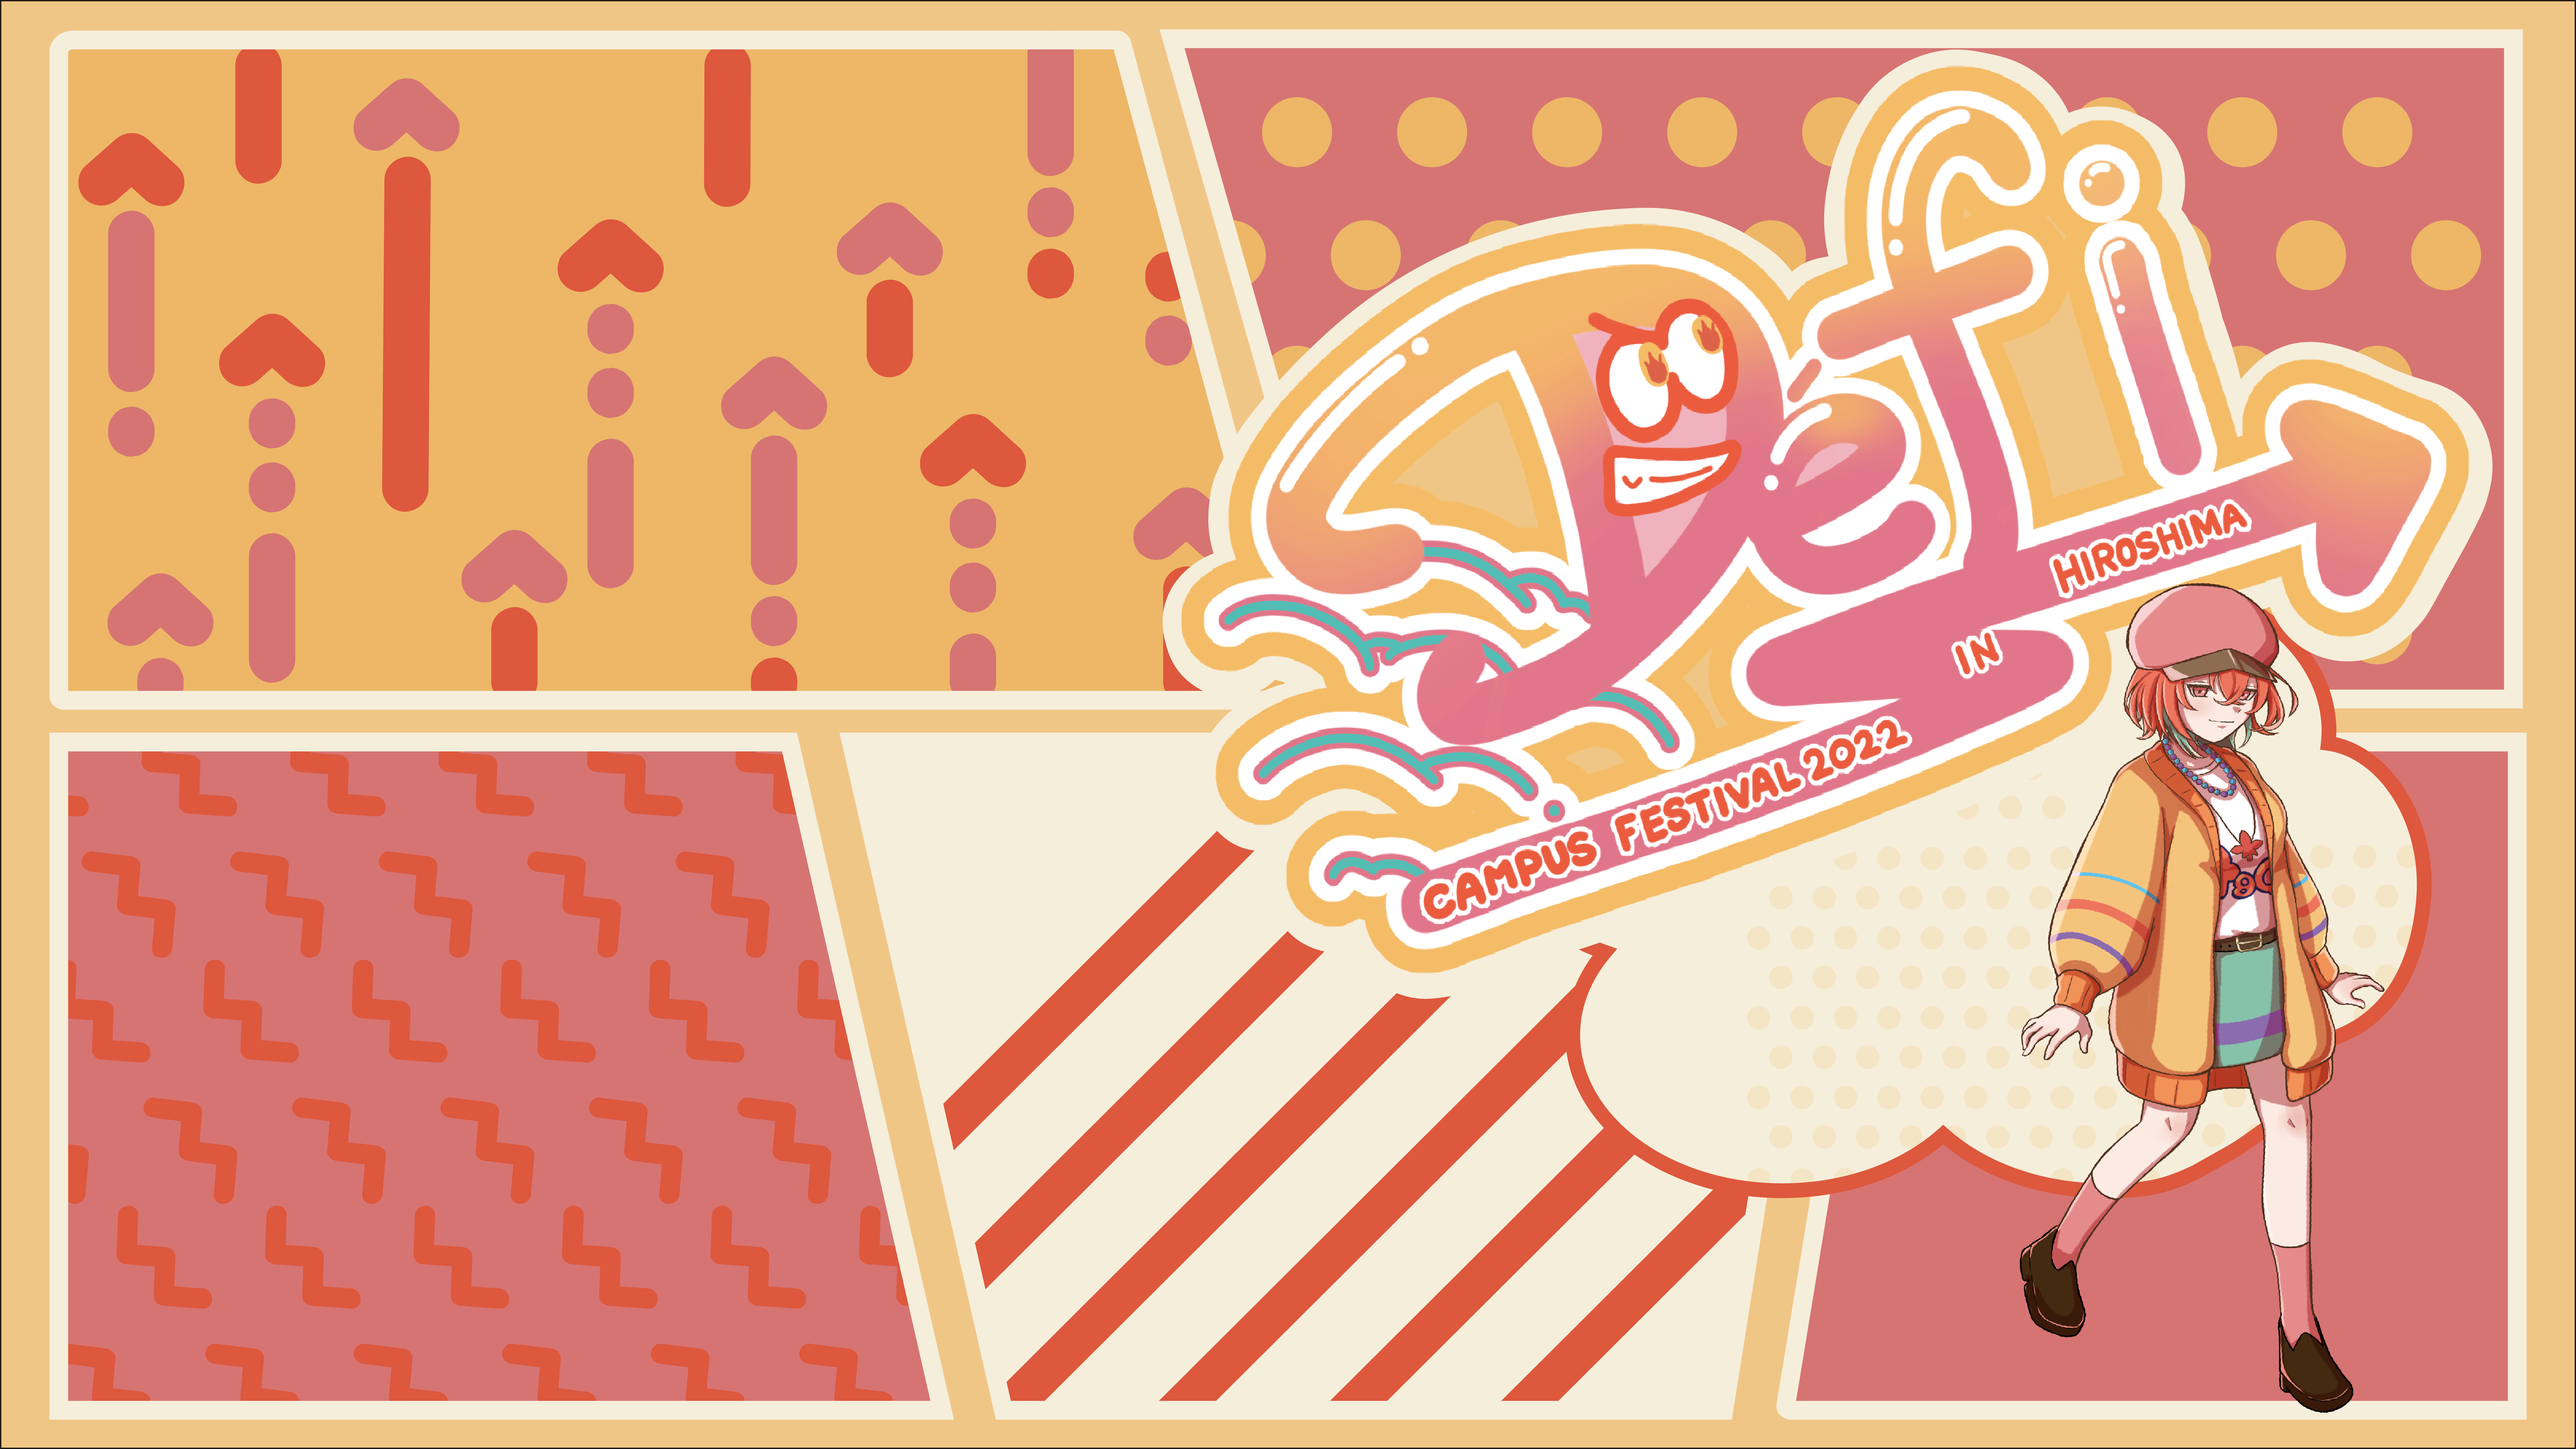
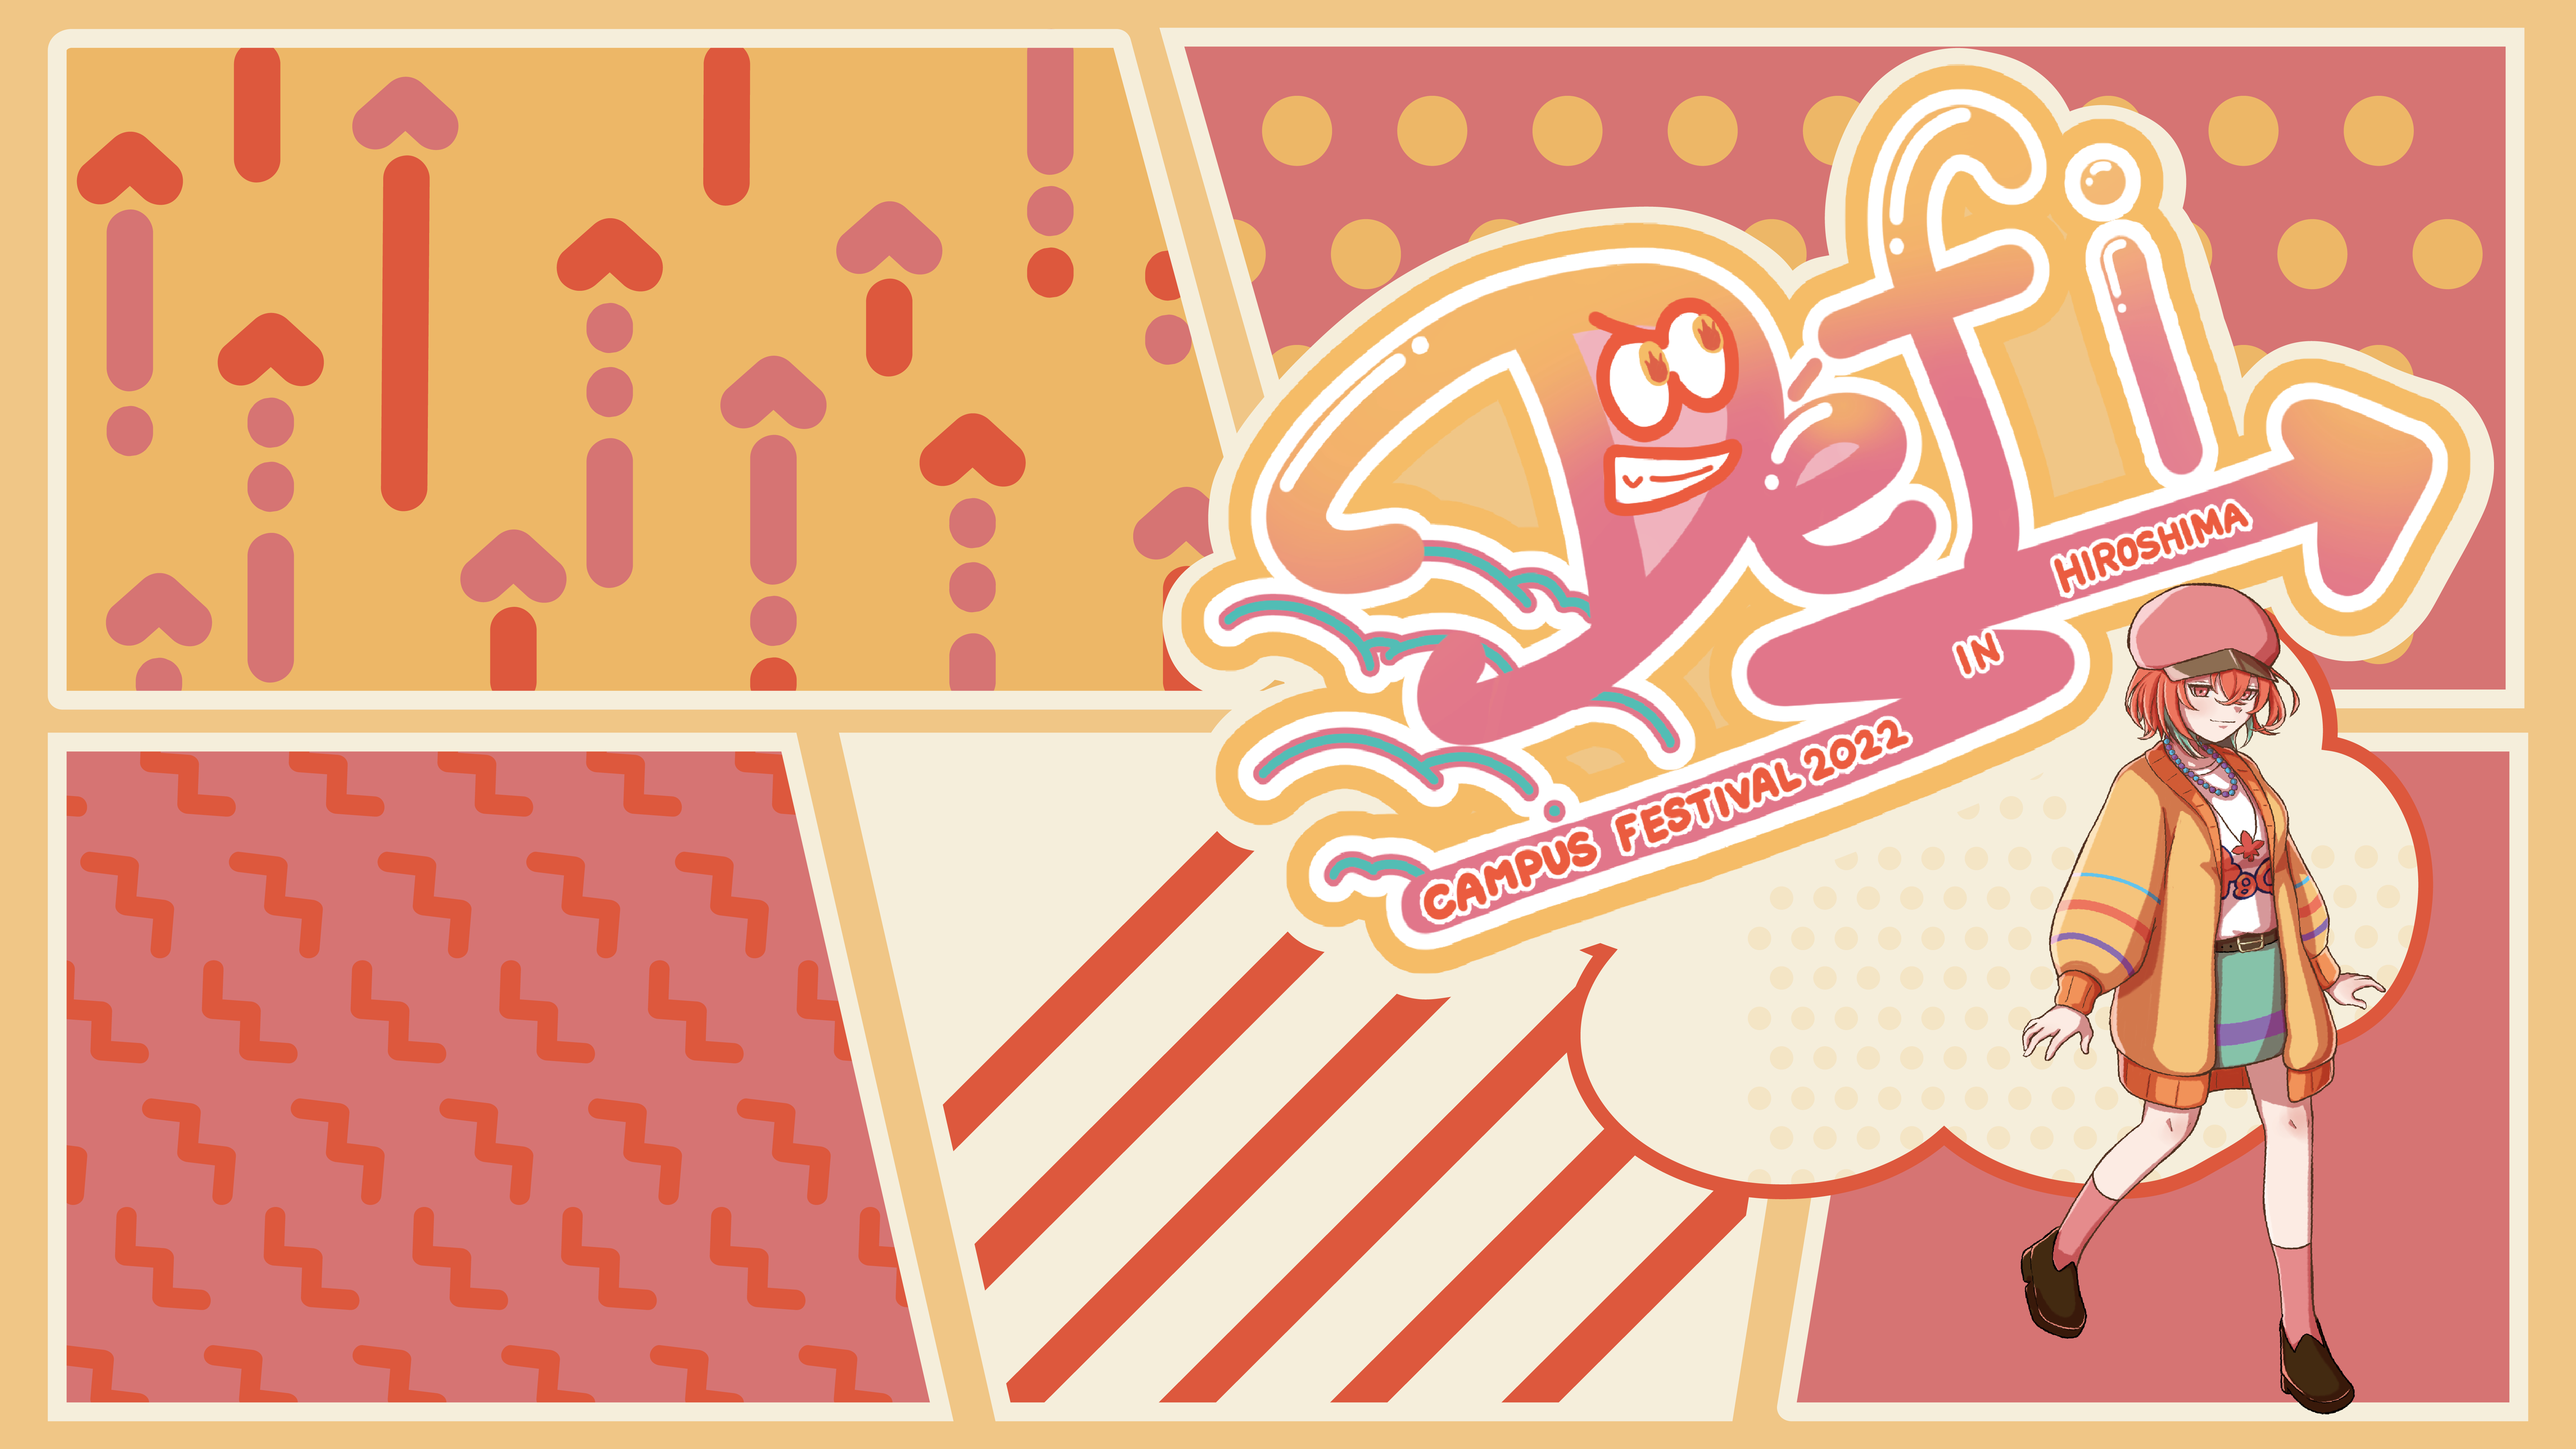
update
アニメーション調整
Slogan.js/cssをTop.js/cssに変更
→最新情報記載場所に

diff --git a/src/components/Top.js b/src/components/Top.js
@@ -1,21 +1,21 @@
 // スローガン ロゴと由来
-import './Slogan.css';
+import './Top.css';
 import { FaExternalLinkAlt } from 'react-icons/fa';
 import logo from './asset/logo.png';
 import './animation.css';
 import { useInView } from 'react-intersection-observer';
 
-function Slogan() {
+function Top() {
     const slogan = "Défi"
     const slogan_blog = "http://cf-blog.ns-hiroshima-campus.net/2022/11/01/cf2022%e5%a7%8b%e5%8b%95/"
 
     const { ref , inView } = useInView({
-        rootMargin: '10px',
+        rootMargin: '-10px',
         triggerOnce: true
     });
     return (
         <div className='sec-wrap'>
-            <div id="Slogan" ref={ref} className={inView ? "active section fadein" : "section fadein"}>
+            <div id="Top" ref={ref} className={inView ? "active section fadein" : "section fadein"}>
                 <div>
                     <h1 className='sec-title'>スローガン</h1>
                     <p>Campus Festival 2022 in Hiroshimaのスローガンは<strong>{slogan}</strong>に決定しました！！<span id='toblog'>（詳しくは<a href={slogan_blog} target='_blank' rel='noopener noreferrer'>こちら<FaExternalLinkAlt style={{margin:"0 .5vmin"}}/></a>で紹介しています。）</span></p>
@@ -26,4 +26,4 @@ function Slogan() {
         </div>
     );
 }
-export default Slogan;
+export default Top;

diff --git a/src/components/Header.css b/src/components/Header.css
@@ -1,5 +1,5 @@
 #normal-head {
-    opacity: 0.1;
+    opacity: 0;
     z-index: 100;
 }
 
@@ -85,18 +85,24 @@
 #topimg {
     display: block;
     position: relative;
-    width: 100vw;
+    text-align: right;
     z-index: 1;
+    width: 100vw;
 }
 
 #topimg img {
-    width: 100%;
+    width: 100vw;
+    height: 100vh;
+    object-fit: cover;
+    margin: 0;
+    
 }
 
 #topimg div {
     position: absolute;
     top: 70%;
     left: 10%;
+    text-align: left;
 }
 
 #topimg div p:nth-of-type(1) {
@@ -113,6 +119,7 @@
 #topimg div p:nth-of-type(2) path {
     color: #fff;
     transform: translateY(10%);
+    animation: scrollarrow 3.0s infinite ease-in-out;
 }
 
 @media screen and (max-width: 800px) {
@@ -124,6 +131,10 @@
     #normal-head #logo {
         width: 25%;
         left: 7.5%;
+    }
+
+    #topimg {
+        display: none;
     }
 
     #pc_nav {
@@ -167,5 +178,15 @@
 @media screen and (min-width: 801px) {
     #mo_nav {
         display: none;
+    }
+}
+
+@keyframes scrollarrow {
+    40% {
+        transform: translateY(10%);
+    } 50% {
+        transform: translateY(5%);
+    } 80% {
+        transform: translateY(100%);
     }
 }

diff --git a/src/components/Access.js b/src/components/Access.js
@@ -1,6 +1,7 @@
 // キャンパスの地図と住所 / 交通手段
 import './Access.css';
 import { FaExternalLinkAlt } from 'react-icons/fa';
+import { useInView } from 'react-intersection-observer';
 
 function Access() {
     const adress1 = '〒730-0051';
@@ -12,9 +13,14 @@ function Access() {
     // バス路線掲載ページurl （ナビタイム）
     const bus_src ='https://www.navitime.co.jp/bus/diagram/direction/00093111/';
 
+    const { ref , inView } = useInView({
+        rootMargin: '-10px',
+        triggerOnce: true
+    });
+
     return (
         <div className='sec-wrap'>
-        <div id="Access" className='section'>
+        <div id="Access" ref={ref} className={inView ? "active section fadein" : "section fadein"}>
             <h1 className='sec-title'>会場アクセス</h1>
             <div id='area-map'>
                 <iframe src={map_src} allowfullscreen="" loading="lazy" referrerpolicy="no-referrer-when-downgrade"></iframe>

diff --git a/src/App.js b/src/App.js
@@ -1,6 +1,6 @@
 import React from 'react';
 import Header from './components/Header';
-import Slogan from './components/Slogan';
+import Top from './components/Top';
 import Program from './components/Program';
 import Timetable from './components/Timetable';
 import Map from './components/Map';
@@ -16,7 +16,7 @@ function App() {
         <div id="app">
             <Loading />
             <Header />
-            <Slogan />
+            <Top />
             <Program />
             <Timetable />
             <Map />

diff --git a/src/components/Top.css b/src/components/Top.css
@@ -1,21 +1,21 @@
-#Slogan {
-    margin-top: 15vh;
+#Top {
+    padding-top: 10vh;
 }
 
-#Slogan>div {
+#Top>div {
     display: inline-block;
 }
 
-#Slogan img {
+#Top img {
     width: 45%;
 }
 
-#Slogan strong {
+#Top strong {
     font-size: large;
     text-decoration: underline;
 }
 
-#Slogan p {
+#Top p {
     margin-top: 1.5vmin;
 }
 

diff --git a/src/components/CampusPrg.js b/src/components/CampusPrg.js
@@ -12,7 +12,7 @@ import { useInView } from 'react-intersection-observer';
 function Campusprg() {
     let i = 0;
     const { ref , inView } = useInView({
-        rootMargin: '10px',
+        rootMargin: '-10px',
         triggerOnce: true
     });
     return (

diff --git a/src/components/StagePrg.js b/src/components/StagePrg.js
@@ -14,7 +14,7 @@ import { useInView } from 'react-intersection-observer';
 
 function Stageprg() {
     const { ref , inView } = useInView({
-        rootMargin: '10px',
+        rootMargin: '-10px',
         triggerOnce: true
     });
     return (

diff --git a/src/components/Timetable.js b/src/components/Timetable.js
@@ -6,7 +6,7 @@ import { useInView } from 'react-intersection-observer';
 
 function Timetable() {
     const { ref , inView } = useInView({
-        rootMargin: '10px',
+        rootMargin: '-10px',
         triggerOnce: true
     });
     return (

diff --git a/src/components/Map.js b/src/components/Map.js
@@ -6,7 +6,7 @@ import { useInView } from 'react-intersection-observer';
 
 function Map() {
     const { ref , inView } = useInView({
-        rootMargin: '10px',
+        rootMargin: '-10px',
         triggerOnce: true
     });
     return (

diff --git a/src/components/Program.js b/src/components/Program.js
@@ -16,7 +16,7 @@ function slprg() {
 
 function Program() {
     const { ref , inView } = useInView({
-        rootMargin: '10px',
+        rootMargin: '-10px',
         triggerOnce: true
     });
     return (
